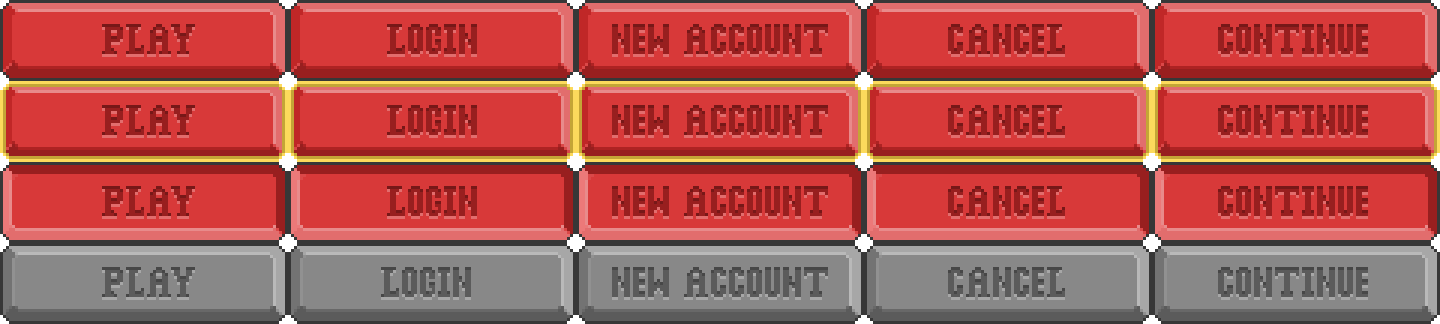
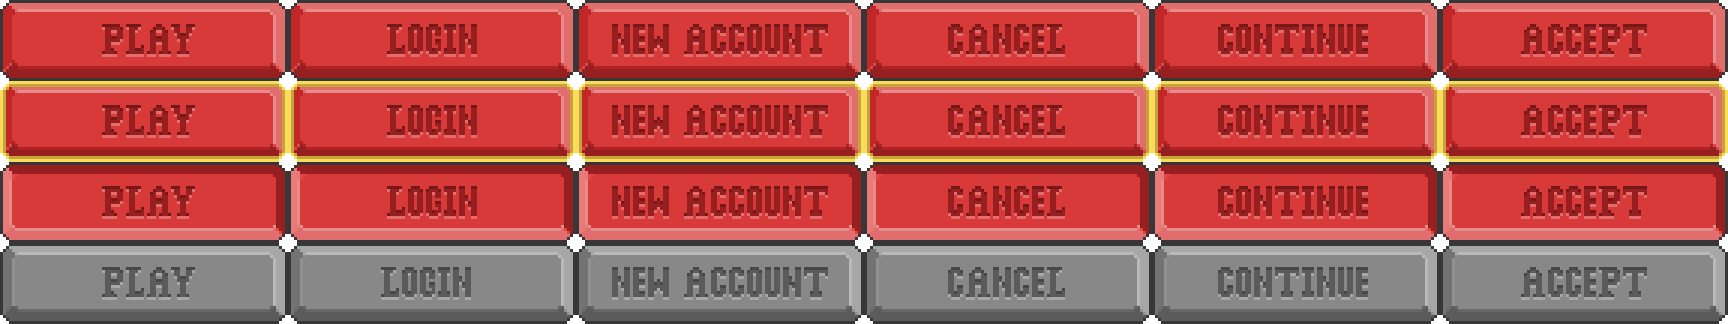
feat: trading UI

diff --git a/packages/client/src/menu/trade.ts b/packages/client/src/menu/trade.ts
@@ -1,12 +1,78 @@
 import Menu from './menu';
 
+import Util from '../utils/util';
+
+import { Modules } from '@kaetram/common/network';
+
+import type Inventory from './inventory';
+import type Player from '../entity/character/player/player';
+
+type SelectCallback = (type: Modules.ContainerType, index: number) => void;
 export default class Trade extends Menu {
     public override hideOnShow = false;
 
+    private inventoryList: HTMLUListElement = document.querySelector(
+        '#trade-inventory-slots > ul'
+    )!;
+
+    private playerName: HTMLElement = document.querySelector('#trade-player-name')!;
+    private otherPlayerName: HTMLElement = document.querySelector('#trade-oplayer-name')!;
+
+    private selectCallback?: SelectCallback;
     private closeCallback?: () => void;
 
-    public constructor() {
+    public constructor(private inventory: Inventory) {
         super('#trade', undefined, '#close-trade');
+
+        this.load();
+    }
+
+    /**
+     * Loads the empty inventory slots based on the size of the inventory.
+     * Creates an event listener for each slot that direts to `select()`.
+     */
+
+    public load(): void {
+        for (let i = 0; i < Modules.Constants.INVENTORY_SIZE; i++)
+            this.inventoryList.append(
+                Util.createSlot(Modules.ContainerType.Inventory, i, this.select.bind(this))
+            );
+    }
+
+    /**
+     * Synchronizes the slot data between the store and the inventory.
+     */
+
+    public override synchronize(): void {
+        if (!this.isVisible()) return;
+
+        this.inventory.forEachSlot((index: number, slot: HTMLElement) => {
+            let image = this.getElement(index).querySelector<HTMLElement>('.item-image')!,
+                count = this.getElement(index).querySelector<HTMLElement>('.inventory-item-count')!,
+                slotImage = slot.querySelector<HTMLElement>('.item-image')!;
+
+            if (!slotImage) return;
+
+            image.style.backgroundImage = slotImage.style.backgroundImage;
+            count.textContent = slot.textContent;
+        });
+    }
+
+    /**
+     * Override for the show method where we use information from the two players
+     * participating in the trading action to update the user interface.
+     * @param player The primary player (from our perspective) who is trading.
+     * @param otherPlayer The other player. For the other player, our player is the other player.
+     */
+
+    public override show(player: Player, otherPlayer: Player): void {
+        super.show();
+
+        this.synchronize();
+
+        // Update the player names
+        this.playerName.textContent = player.name;
+        this.otherPlayerName.textContent = otherPlayer.name;
     }
 
     /**
@@ -18,6 +84,39 @@ export default class Trade extends Menu {
         super.hide();
 
         if (!ignoreCallback) this.closeCallback?.();
+    }
+
+    /**
+     * Initializes the selection process. A callback is created so that
+     * the menu controller can send specified request to the server.
+     * @param type Which container is being acted on (inventory or bank).
+     * @param index The index of the item being acted on.
+     */
+
+    private select(type: Modules.ContainerType, index: number): void {
+        this.selectCallback?.(type, index);
+    }
+
+    /**
+     * Grabs the HTMLElement at a specified index within the
+     * inventory slot list.
+     * @param index The index of the element to grab.
+     * @returns The HTMLElement at the specified index.
+     */
+
+    private getElement(index: number): HTMLElement {
+        return this.inventoryList.children[index].querySelector('div') as HTMLElement;
+    }
+
+    /**
+     * Callback used for whenever a slot is selected. This is used
+     * by an external controller in order to make requests to the server.
+     * @param callback Contains the type of container that is
+     * being clicked, as well as the index of the slot.
+     */
+
+    public onSelect(callback: SelectCallback): void {
+        this.selectCallback = callback;
     }
 
     /**

diff --git a/packages/client/scss/game/impl/_trade.scss b/packages/client/scss/game/impl/_trade.scss
@@ -15,12 +15,72 @@
     left: 98% !important;
 }
 
+#trade-inventory-slots {
+    position: absolute;
+    overflow: hidden;
+    overflow-y: scroll;
+
+    ul {
+        margin: 0;
+        padding: 0;
+        list-style-type: none;
+
+        li {
+            float: left;
+        }
+    }
+}
+
+#trade-player-name,
+#trade-oplayer-name {
+    position: absolute;
+    font-family: AdvoCut, sans-serif;
+    color: white;
+    text-align: center;
+}
+
 @each $size, $i in media.$sizes {
     @media ($size) {
         #trade {
             width: 379px * $i;
             height: 170px * $i;
             background: url('/img/#{$i}/trade.png') 0 0 no-repeat;
+        }
+
+        #trade-inventory-slots {
+            top: 16px * $i;
+            left: 20px * $i;
+            width: 96px * $i;
+            height: 92px * $i;
+
+            ul {
+                li {
+                    .item-slot {
+                        margin-bottom: 4px * $i;
+                    }
+                }
+            }
+        }
+
+        #trade-player-name,
+        #trade-oplayer-name {
+            top: 13px * $i;
+            width: 104px * $i;
+            height: 10px * $i;
+            font-size: 10px * $i;
+        }
+
+        #trade-player-name {
+            left: 140px * $i;
+        }
+
+        #trade-oplayer-name {
+            left: 263px * $i;
+        }
+        
+        #trade-accept {
+            right: 77px * $i;
+            bottom: 5px * $i;
         }
     }
 }

diff --git a/packages/client/scss/game/impl/_buttons.scss b/packages/client/scss/game/impl/_buttons.scss
@@ -1,3 +1,5 @@
+@use '../../abstracts/media';
+
 #buttons {
     cursor: url('/img/3/hand.png'), auto;
 
@@ -148,5 +150,32 @@
 
     &.active, &:active {
         background-position-x: -1176px;
+    }
+}
+
+// Big buttons with text on them
+.accept-button {
+    position: absolute;
+}
+
+@each $size, $i in media.$sizes {
+    @media ($size) {
+        .accept-button {
+            width: 96px * $i;
+            height: 27px * $i;
+            background: url('/img/#{$i}/buttons.png') -480px * $i 0 no-repeat;
+
+            &:hover {
+                background-position-y: -27px * $i;
+            }
+
+            &.active, &:active {
+                background-position-y: -54px * $i;
+            }
+
+            &.disabled {
+                background-position-y: -81px * $i;
+            }
+        }
     }
 }

diff --git a/packages/client/index.html b/packages/client/index.html
@@ -768,8 +768,14 @@
 
                 <div id="trade">
                     <div id="close-trade" class="close"></div>
+                    <div id="trade-player-name" class="stroke"></div>
+                    <div id="trade-oplayer-name" class="stroke"></div>
+
+                    <div id="trade-inventory-slots"><ul></ul></div>
                     <div id="trade-player-container"></div>
                     <div id="trade-o-player-container"></div>
+
+                    <div id="trade-accept" class="accept-button disabled"></div>
                 </div>
 
                 <div id="enchant">

diff --git a/packages/client/src/network/connection.ts b/packages/client/src/network/connection.ts
@@ -1022,7 +1022,11 @@ export default class Connection {
     private handleTrade(opcode: Opcodes.Trade, info: TradePacket): void {
         switch (opcode) {
             case Opcodes.Trade.Open: {
-                return this.menu.getTrade().show();
+                let otherPlayer = this.entities.get<Player>(info.instance!);
+
+                if (!otherPlayer) return;
+
+                return this.menu.getTrade().show(this.game.player, otherPlayer);
             }
 
             case Opcodes.Trade.Close: {

diff --git a/packages/client/src/controllers/menu.ts b/packages/client/src/controllers/menu.ts
@@ -57,7 +57,7 @@ export default class MenuController {
         this.achievements = new Achievements(game.player);
         this.quests = new Quests(game.player);
         this.friends = new Friends(game.player);
-        this.trade = new Trade();
+        this.trade = new Trade(this.inventory);
 
         this.menus = {
             inventory: this.inventory,

diff --git a/packages/common/network/modules.ts b/packages/common/network/modules.ts
@@ -17,7 +17,8 @@ export enum PacketType {
 
 export enum ContainerType {
     Bank,
-    Inventory
+    Inventory,
+    Trade
 }
 
 export enum Orientation {
